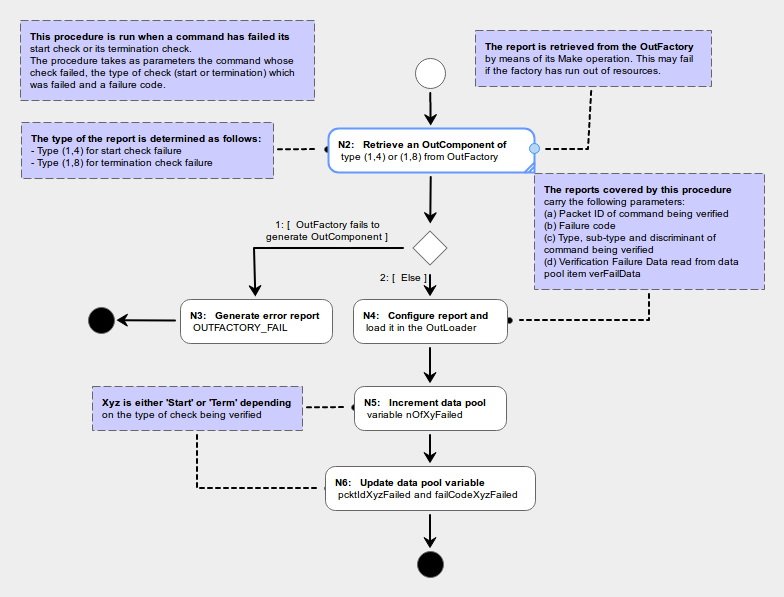
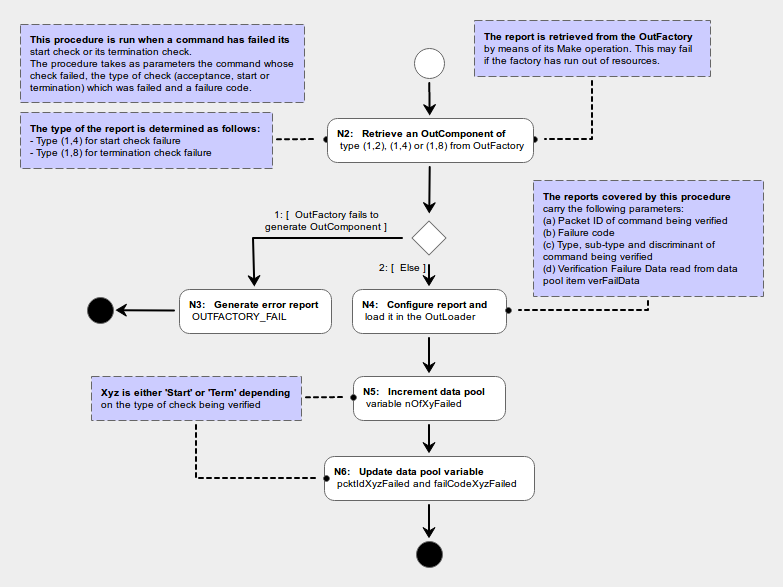
On-going debugging of service 1 implementation

Changed region(s): [[0.0307, 0.0307, 0.9808, 0.5826], [0.1226, 0.6133, 0.6743, 0.8586], [0.5211, 0.8893, 0.5517, 0.9506]]

diff --git a/src/Ver/CrPsPcktAccFailFunc.c b/src/Ver/CrPsPcktAccFailFunc.c
@@ -30,69 +30,47 @@
 #include "FwPrCore.h"
 #include "FwSmConfig.h"
 
-#include "Pckt/CrFwPckt.h" /* --- interface to adaptation point CrFwPckt --- */
-#include <CrFwCmpData.h>
-#include <BaseCmp/CrFwBaseCmp.h>
-#include <OutFactory/CrFwOutFactory.h>
-#include <OutLoader/CrFwOutLoader.h>
-#include <OutCmp/CrFwOutCmp.h>
+#include "Pckt/CrFwPckt.h"
+#include "CrPsConstants.h"
+#include "CrPsTypes.h"
 
-#include <CrPsRepErr.h>
-#include <DataPool/CrPsDpServReqVerif.h>
-#include <Services/General/CrPsPktServReqVerif.h>
-#include <Services/General/CrPsPktServReqVerifSupp.h>
-#include <Services/General/CrPsPktUtil.h>
-#include <Services/General/CrPsConstants.h>
+/* Framework function definitions */
+#include "OutFactory/CrFwOutFactory.h"
+#include "OutCmp/CrFwOutCmp.h"
+#include "OutLoader/CrFwOutLoader.h"
+#include "CrFwTime.h"
+#include "CrFwCmpData.h"
 
 #include <stdlib.h>
-#include <time.h>
 
 static FwSmDesc_t rep;
+static CrPsVerData_t* repData;
 
 /* ------------------------------------------------------------------------------------ */
 /** Action for node N1. */
 void CrPsPcktAccFailN1(FwPrDesc_t prDesc) {
-  CrFwCmpData_t   *inData;
-  CrFwInRepData_t *inSpecificData;
-  CrFwPckt_t       inPckt;
-  FwSmDesc_t       smDesc;
-  prData_t        *prData;
-  CrPsRepErrCode_t errCode;
+   CrPsVerData_t* repData = (CrPsVerData_t*)FwPrGetData(prDesc);
 
   /* Generate error report INLOADER_ACC_FAIL */
-
-  /* Get procedure parameters */
-  prData = FwPrGetData(prDesc);
-  smDesc = prData->smDesc;
-
-   /* Get in packet */
-  inData         = (CrFwCmpData_t*)FwSmGetData(smDesc);
-  inSpecificData = (CrFwInRepData_t*)inData->cmpSpecificData;
-  inPckt         = inSpecificData->pckt;
-
-  errCode = crInloaderAccFail;
-  CrPsRepErr(errCode, CrFwPcktGetServType(inPckt), CrFwPcktGetServSubType(inPckt), CrFwPcktGetDiscriminant(inPckt));
+  CrFwRepErrKind(crInLoaderAccFail, 0, 0, repData->servType, repData->servSubType, repData->disc);
 
   return;
 }
 
 /* ------------------------------------------------------------------------------------ */
 /** Action for node N2. */
-void CrPsPcktAccFailN2(FwPrDesc_t prDesc)
-{
+void CrPsPcktAccFailN2(FwPrDesc_t prDesc) {
   CRFW_UNUSED(prDesc);
-  /* Retrieve an OutComponent of type (1,2) from the OutFactory */
 
-  /* Create out component */
-  rep = CrFwOutFactoryMakeOutCmp(CRPS_REQVERIF, CRPS_REQVERIF_ACC_FAIL, 0, 0);
+  /* Retrieve an OutComponent of type (1,2) from the OutFactory */
+  rep = CrFwOutFactoryMakeOutCmp(VER_TYPE, VERFAILEDACCREP_STYPE, 0, 0);
 
   return;
 }
 
 /* ------------------------------------------------------------------------------------ */
 /** Action for node N3. */
-void CrPsPcktAccFailN3(FwPrDesc_t prDesc)
-{
+void CrPsPcktAccFailN3(FwPrDesc_t prDesc) {
   CrPsRepErrCode_t errCode;
 
   CRFW_UNUSED(prDesc);

diff --git a/doc/pus/PusExtension.tex b/doc/pus/PusExtension.tex
@@ -319,6 +319,9 @@ Point 3 of clause 5.4.11.2.3a implies that a Progress-of-Execution failure for a
 \subsubsection{Time-Tagging of Reports}
 Clause 5.4.2.1 of the PUS leaves applications the option to generate the time-tag of a report either before or after the time the report collects its data. In the CORDET Framework, the time-stamp of a report represents the time when an application makes a request to issue that report (this is after the report data have been collected). 
 
+\subsubsection{Reporting Successful Progress of Execution}
+A Successful Progress of Execution Report (1,5) is generated when the progress action of an incoming command has completed one "progress step". In the CORDET Framework, a "progress step" corresponds to the execution of an InCommand in state PROGRESS. It is recognized that, in a PUS context, a "progress step" should have a higher granularity. For this reason, an adaptation point is defined (adaptation point ICM-15, "Operation to Report Progress Success for InCommand") which allows applications to specify the conditions under which a (1,5) report should be generated. 
+
 \newpage
 \begin{longtable}{|l|>{\raggedright\arraybackslash}p{10cm}|}
 \caption{Terminological Mapping PUS-CORDET}\label{tab:termPusCr} \\
@@ -341,7 +344,7 @@ Notification & In the PUS, a report contains one or more notifications. The noti
 \hline
 Parameter & In a generic sense, PUS parameters are mapped to command and report parameters. In the specific context of service 3, parameters are mapped to data items. \\
 \hline
-Progress Step & In the PUS, the Progress Step is an enumerated type. In the CORDET Framework it is a positive integer which is equal to the number of times that the Progress Action has been executed since the execution of the command started. \\
+Progress Step & In the PUS, the Progress Step is an enumerated type. In the CORDET Framework it is a positive integer which, by default, is equal to the number of times that the Progress Action has been executed since the execution of the command started. Applications can define a different granularity by overriding adaptation point ICM-15 (Operation to Report Progress Success for InCommand) \\
 \hline
 Request & The PUS Request is the same as the CORDET Command \\
 \hline

diff --git a/tests/PusConfig/CrFwRepInCmdOutcome.c b/tests/PusConfig/CrFwRepInCmdOutcome.c
@@ -27,8 +27,13 @@
 #include <stdlib.h>
 /* Include Framework Files */
 #include "CrFwConstants.h"
+#include "CrFwUserConstants.h"
 #include "CrFwRepInCmdOutcome.h"
 #include "Pckt/CrFwPckt.h"
+#include "CrFwVerServUserPar.h"
+
+/** Pointer to function which determines whether an execution step has been completed (see <code>::CR_PS_STEP_COMPLETED</code>. */
+static CrPsStepCompleted_t isStepCompleted = CR_PS_STEP_COMPLETED;
 
 /*-----------------------------------------------------------------------------------------*/
 /**
@@ -43,7 +48,7 @@ void CrFwRepInCmdOutcome(CrFwRepInCmdOutcome_t outcome, CrFwInstanceId_t instanc
   switch (outcome) {
     case crCmdAckAccFail:		/* Report an acceptance failure */
     	 CrPsVerConfigSetPrData(outcome, servType, servSubType, disc, failCode, inCmd);
-         serv1Pr = CrPsVerConfigGetPcktAccFail();
+         serv1Pr = CrPsVerConfigGetCmdVerFail();
          FwPrRun(serv1Pr);
          break;
     case crCmdAckAccSucc:		/* Report an acceptance success */
@@ -67,9 +72,11 @@ void CrFwRepInCmdOutcome(CrFwRepInCmdOutcome_t outcome, CrFwInstanceId_t instanc
          FwPrRun(serv1Pr);
          break;
     case crCmdAckPrgSucc:		/* Report a progress success */
-         CrPsVerConfigSetPrData(outcome, servType, servSubType, disc, failCode, inCmd);
-         serv1Pr = CrPsVerConfigGetCmdPrgrSucc();
-         FwPrRun(serv1Pr);
+         if (isStepCompleted(inCmd) == 1) {
+             CrPsVerConfigSetPrData(outcome, servType, servSubType, disc, failCode, inCmd);
+             serv1Pr = CrPsVerConfigGetCmdPrgrSucc();
+             FwPrRun(serv1Pr);
+         }
          break;
     case crCmdAckTrmFail:		/* Report a termination failure */
          CrPsVerConfigSetPrData(outcome, servType, servSubType, disc, failCode, inCmd);
@@ -94,7 +101,7 @@ void CrFwRepInCmdOutcomeCreFail(CrFwRepInCmdOutcome_t outcome, CrFwOutcome_t fai
     FwPrDesc_t serv1Pr;
     CrPsVerConfigSetPrData(outcome, CrFwPcktGetServType(pckt), CrFwPcktGetServSubType(pckt),
                                                    CrFwPcktGetDiscriminant(pckt), VER_CRE_FD, NULL);
-     serv1Pr = CrPsVerConfigGetCmdVerFail();
-     FwPrRun(serv1Pr);
+    serv1Pr = CrPsVerConfigGetCmdVerFail();
+    FwPrRun(serv1Pr);
 }
 

diff --git a/tests/PusConfig/CrFwVerServUserPar.h b/tests/PusConfig/CrFwVerServUserPar.h
@@ -1,0 +1,44 @@
+/**
+ * @file CrPsVerServUserPar.h
+ * @ingroup PUSTestsuite
+ * @ingroup PUSTestconfig 
+ *
+ * @brief User-modifiable parameters for the Request Verification Service.
+ *
+ * @author Alessandro Pasetti <pasetti@pnp-software.com>
+ * @copyright P&P Software GmbH, 2013, All Rights Reserved
+ *
+ * @copyright P&P Software GmbH, 2015 / Department of Astrophysics, University of Vienna, 2018
+ *
+ * This Source Code Form is subject to the terms of the Mozilla Public
+ * License, v. 2.0. If a copy of the MPL was not distributed with this
+ * file, You can obtain one at http://mozilla.org/MPL/2.0/. 
+ *
+ */
+
+#ifndef CRPS_VERSERV_USERPAR_H_
+#define CRPS_VERSERV_USERPAR_H_
+
+#include "UtilityFunctions/CrFwUtilityFunctions.h"
+
+/**
+ * The function which implements the Service 1 Progress Step Completed Check.
+ * The PUS stipulates that a Successful Progress of Execution Report (1,5) is generated at
+ * the completion of each progress step.
+ * By default, in the CORDET Framework, a progress step for an incoming command corresponds to
+ * one execution of the InCommand which encapsulates the incoming command.
+ * This function can be used to reduce the frequency with which the (1,5) reports are generated.
+ * The function is called by <code>::CrFwRepInCmdOutcome</code> at the completion of a
+ * progress step for an InCommand.
+ * If the function returns a non-zero value, then <code>::CrFwRepInCmdOutcome</code> generates
+ * a (1,5) report for the InCommand. The return value of the function is interpreted as the
+ * current step number.
+ *
+ * This function must conform to the prototype defined by <code>::CrPsStepCompleted_t</code>.
+ * The function specified here is a default which always returns 1.
+ * This is equivalent to treating each execution of an InCommand as a "progress step" in
+ * the sense of service 1.
+ */
+#define CR_PS_STEP_COMPLETED TBD
+
+#endif /* CRPS_VERSERV_USERPAR_H_ */

diff --git a/src/Ver/CrPsVerConfig.c b/src/Ver/CrPsVerConfig.c
@@ -17,7 +17,6 @@
 #include "CrPsCmdPrgrFail.h"
 #include "CrPsCmdPrgrSucc.h"
 #include "CrPsCmdVerFail.h"
-#include "CrPsPcktAccFail.h"
 #include "CrPsPcktReroutingFail.h"
 
 #include "DataPool/CrPsDpVer.h"
@@ -40,9 +39,6 @@ static FwPrDesc_t CmdVerFail = NULL;
 /** Singleton instance of Procedure for Command Verification Success */
 static FwPrDesc_t CmdVerSucc = NULL;
 
-/** Singleton instance of Procedure for Packet Acceptance Failure */
-static FwPrDesc_t PcktAccFail = NULL;
-
 /** Singleton instance of Procedure for Packet Acceptance Success */
 static FwPrDesc_t PcktReroutingFail = NULL;
 
@@ -57,7 +53,6 @@ void CrPsVerConfigInit() {
 	CmdPrgrSucc = CrPsCmdPrgrSuccCreate(&prVerData);
 	CmdVerFail = CrPsCmdVerFailCreate(&prVerData);
 	CmdVerSucc = CrPsCmdVerSuccCreate(&prVerData);
-	PcktAccFail = CrPsPcktAccFailCreate(&prVerData);
 	PcktReroutingFail = CrPsPcktReroutingFailCreate(&prVerData);
 }
 
@@ -89,11 +84,6 @@ FwPrDesc_t CrPsVerConfigGetCmdVerFail() {
 /*------------------------------------------------------------------------*/
 FwPrDesc_t CrPsVerConfigGetCmdVerSucc() {
 	return CmdVerSucc;
-}
-
-/*------------------------------------------------------------------------*/
-FwPrDesc_t CrPsVerConfigGetPcktAccFail() {
-	return PcktAccFail;
 }
 
 /*------------------------------------------------------------------------*/

diff --git a/src/Ver/CrPsVerConfig.h b/src/Ver/CrPsVerConfig.h
@@ -136,16 +136,6 @@ FwPrDesc_t CrPsVerConfigGetCmdVerFail();
 FwPrDesc_t CrPsVerConfigGetCmdVerSucc();
 
 /**
- * Return the instance of the procedure implementing the Packet Acceptance Failure Procedure.
- * This function should only be called after function <code>::CrPsVerConfigInit</code> (which
- * creates and configures the procedure instance) has been called.
- * If the initialization failed, this function might return NULL.
- *
- * @return the descriptor of the Packet Acceptance Failure Procedure
- */
-FwPrDesc_t CrPsVerConfigGetPcktAccFail();
-
-/**
  * Return the instance of the procedure implementing the Packet Rerouting Failure Procedure.
  * This function should only be called after function <code>::CrPsVerConfigInit</code> (which
  * creates and configures the procedure instance) has been called.

diff --git a/tests/PusConfig/CrFwUserConstants.h b/tests/PusConfig/CrFwUserConstants.h
@@ -244,6 +244,17 @@ typedef enum {
 } CrFwAppErrCode_t;
 
 /**
+ * Type for a pointer to a function implementing the Step Completed Check for Service 1.
+ * The Step Completed Check for Service 1 is one of the adaptation points of the PUS Extension
+ * of the CORDET Framework.
+ * This function to determine whether a progress step of an incoming command has been completed.
+ * A function which implements this operation takes the descriptor of the incoming command whose
+ * progress step completion is checked and returns 1 if the currently executing step has been
+ * completed and 0 otherwise.
+ */
+typedef CrFwBool_t (*CrPsStepCompleted_t)(FwSmDesc_t);
+
+/**
  * Maximum number of packets simultaneously supported by the packet factory */
 #define CR_FW_MAX_NOF_PCKTS 255
 

diff --git a/src/Tst/CrPsCmd17s3StartFunc.c b/src/Tst/CrPsCmd17s3StartFunc.c
@@ -83,13 +83,10 @@ void CrPsTestOnBoardConnectionStartN2(FwPrDesc_t prDesc) {
 /* ------------------------------------------------------------------------------------ */
 /* Action for node N3. */
 void CrPsTestOnBoardConnectionStartN3(FwPrDesc_t prDesc) {
-  CrFwCmpData_t* inData;
   CRFW_UNUSED(prDesc);
 
-  inData = (CrFwCmpData_t*)FwPrGetData(prDesc);
-
   /* Generate error report OUTFACTORY_FAIL */
-  CrFwRepErrKind(psOutFactoryFail, inData->typeId, inData->instanceId, TST_TYPE, TSTAREYOUALIVEREP_STYPE, 0);
+  CrFwRepErrKind(psOutFactoryFail, 0, 0, TST_TYPE, TSTAREYOUALIVEREP_STYPE, 0);
 
   return;
 }

diff --git a/src/Ver/CrPsCmdVerFail.h b/src/Ver/CrPsCmdVerFail.h
@@ -12,7 +12,7 @@
  * @image html CrPsCmdVerFail.png
  *
  * @author FW Profile code generator version 5.01
- * @date Created on: Aug 22 2018 19:50:3
+ * @date Created on: Aug 26 2018 1:44:38
  */
 
 /** Make sure to include this header file only once */
@@ -43,7 +43,7 @@ FwPrDesc_t CrPsCmdVerFailCreate(void* prData);
  * Action for node N2.
  * <pre>
  * Retrieve an OutComponent of
- * type (1,4) or (1,8) from OutFactory
+ * type (1,2), (1,4) or (1,8) from OutFactory
  * </pre>
  * @param smDesc the procedure descriptor
  */
